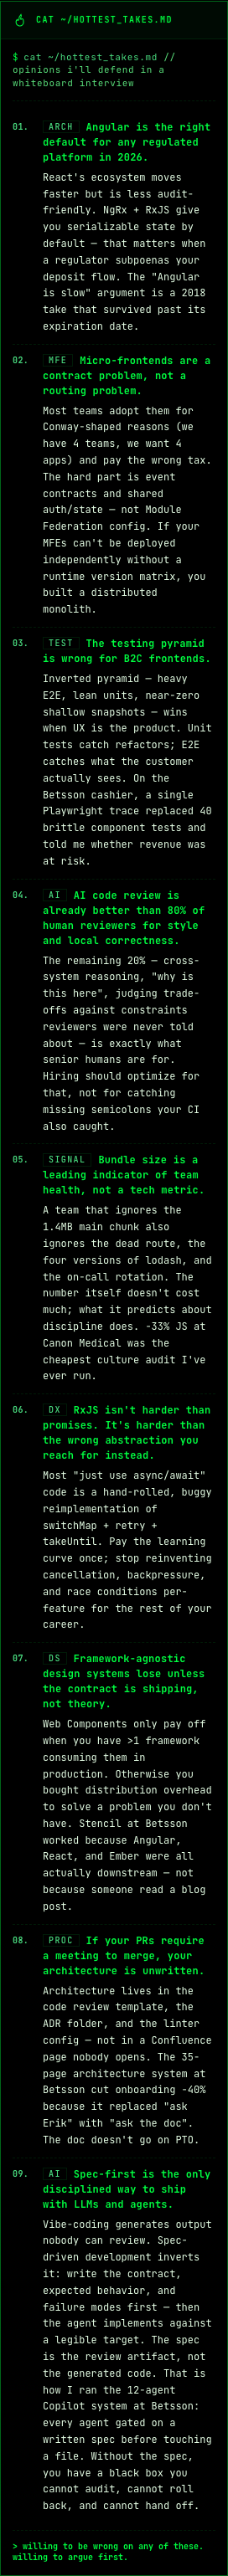
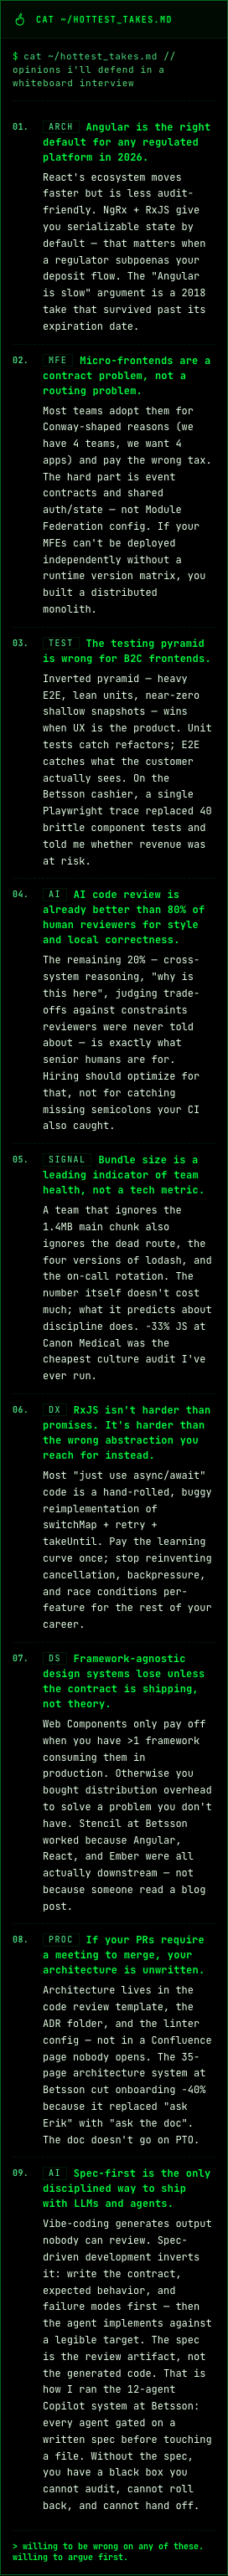
fix(seo): regenerate the CV; finish the TTI sign; glob the identity gate instead of listing it
Four survivors, and the last one explains the other three.

The downloadable CV still said "Senior Full-Stack Software Engineer".
public/erik-cunha-cv.pdf is linked from DesktopTopbar and served at
erikunha.dev/erik-cunha-cv.pdf -- the artifact a recruiter actually takes away,
and the highest-intent surface on the site. The branch exists to retire that
string and it survived there. Regenerated from the corrected source .docx via
LibreOffice: 4 pages before and after, 151983 -> 152041 bytes, title fixed, phone
already correct, layout inspected page by page.

The TTI sign fix was incomplete and the survivor was RENDERED. content/projects.ts
said "+52% TTI" in the description and "TTI GAIN: +52%" in the stat tile, so the
same page displayed -52% (perf-receipts, authoritative) and +52% (projects) at
once. Relabelled to "TTI" so the negative delta reads correctly -- a "gain" of
-52% is nonsense. content/ask-eval-corpus.ts also graded the model against
"~+52%", meaning a correct answer would have scored against ground truth encoding
the sign the prompt no longer uses.

The gate's surface list was HAND-MAINTAINED, and that is the actual defect. It
leaked a survivor in three consecutive review rounds -- the OG card, then the
rendered man page, then the shell's whois response -- because a new content file
is only covered if someone remembers to add it. Memory is not a mechanism. It now
globs content/*.ts, so coverage is the default and forgetting is impossible.
[…]

diff --git a/__tests__/identity-consistency.test.ts b/__tests__/identity-consistency.test.ts
@@ -1,8 +1,7 @@
-import { readFileSync } from 'node:fs';
+import { readdirSync, readFileSync } from 'node:fs';
 import path from 'node:path';
 import { beforeAll, describe, expect, it, vi } from 'vitest';
 import { heroTagline } from '@/content/hero';
-import { manPage } from '@/content/man-page';
 import { personSchema } from '@/content/seo';
 import { social } from '@/content/social';
 import { SYSTEM_TEXT } from '@/lib/ask/system-prompt';
@@ -15,36 +14,39 @@ vi.mock('next/font/local', () => ({
 const CANONICAL_TITLE = 'Senior Full-Stack Engineer';
 const RETIRED_TITLE = 'Full-Stack Software Engineer';
 
-const llmsTxt = readFileSync(path.resolve(__dirname, '../public/llms.txt'), 'utf-8');
-const agentManifest = readFileSync(
-  path.resolve(__dirname, '../public/.well-known/agent.json'),
-  'utf-8',
-);
+const REPO_ROOT = path.resolve(__dirname, '..');
+const CONTENT_DIR = path.join(REPO_ROOT, 'content');
+
+const read = (relativePath: string) => readFileSync(path.join(REPO_ROOT, relativePath), 'utf-8');
+
+const llmsTxt = read('public/llms.txt');
 // behavioral-test-allow: the OG-image title is baked into an HTML template string inside the
 // generator script, so it is reachable only as source text — there is nothing to import
-const ogImageScript = readFileSync(
-  path.resolve(__dirname, '../scripts/generate-og-image.ts'),
-  'utf-8',
-);
+const ogImageScript = read('scripts/generate-og-image.ts');
+
+// Globbed, NOT hand-listed. A hand-maintained surface list leaked a survivor in three
+// consecutive review rounds (the OG card, then the rendered man page, then the shell's
+// whois response) because a new content file is only covered if someone remembers to add
+// it. Enumerating the directory makes coverage the default and forgetting impossible.
+const contentSurfaces: Array<[string, string]> = readdirSync(CONTENT_DIR)
+  .filter((file) => file.endsWith('.ts'))
+  .map((file) => [`content/${file}`, readFileSync(path.join(CONTENT_DIR, file), 'utf-8')]);
+
 const digitsOf = (value: string) => value.replace(/\D/g, '');
 
-let layoutTitle = '';
 let layoutMetadataText = '';
 
 beforeAll(async () => {
   const { metadata } = await import('@/app/layout');
-  layoutTitle = String(metadata.title);
-  // every metadata field a crawler or link-unfurler reads: title, description,
-  // openGraph.{title,description,images[].alt}, twitter.{title,description}
   layoutMetadataText = JSON.stringify(metadata);
 });
 
-describe('identity is consistent across every public surface', () => {
+describe('identity is consistent across every gated surface', () => {
   it('every title surface states the canonical title', () => {
     const surfaces: Array<[string, string]> = [
       ['content/hero.ts (heroTagline)', heroTagline],
       ['content/seo.ts (jobTitle)', personSchema.jobTitle],
-      ['app/layout.tsx (metadata.title)', layoutTitle],
+      ['app/layout.tsx (metadata.title)', String(JSON.parse(layoutMetadataText).title)],
       ['public/llms.txt', llmsTxt],
       ['scripts/generate-og-image.ts (social preview card)', ogImageScript],
     ];
@@ -52,24 +54,19 @@ describe('identity is consistent across every public surface', () => {
 
     expect(
       drifted,
-      `these surfaces do not state the canonical title "${CANONICAL_TITLE}". Every surface a recruiter or crawler can land on must agree. These strings are Zod-validated for SHAPE (min length), never for VALUE, so nothing stopped them drifting apart — which is exactly how public/llms.txt ended up naming a stale employer while the JSON-LD named the current one.`,
+      `these surfaces do not state the canonical title "${CANONICAL_TITLE}". Every surface a recruiter or crawler lands on must agree. The content modules are Zod-validated for SHAPE (min length), never for VALUE, so nothing stopped them drifting apart — which is how public/llms.txt came to name a stale employer while the JSON-LD named the current one.`,
     ).toEqual([]);
   });
 
   it('no surface still carries the retired title', () => {
-    // whole-object surfaces, not cherry-picked fields: app/layout.tsx JSON.stringify's
-    // personSchema into the JSON-LD script, so EVERY field of it is public — checking
-    // jobTitle alone left seeks.itemOffered.title and knowsAbout silently unguarded
     const surfaces: Array<[string, string]> = [
-      ['content/hero.ts (heroTagline)', heroTagline],
-      ['content/man-page.ts (rendered on the page)', JSON.stringify(manPage)],
-      ['content/seo.ts (personSchema → JSON-LD)', JSON.stringify(personSchema)],
-      ['app/layout.tsx (all metadata: og + twitter + alt + description)', layoutMetadataText],
+      ...contentSurfaces,
+      ['app/layout.tsx (og + twitter + alt + description)', layoutMetadataText],
       ['lib/hiring-profile.ts (served at /api/erik.json)', JSON.stringify(HIRING_PROFILE)],
-      ['public/llms.txt', llmsTxt],
-      ['public/.well-known/agent.json', agentManifest],
-      ['scripts/generate-og-image.ts (social preview card)', ogImageScript],
       ['lib/ask/system-prompt.ts', SYSTEM_TEXT],
+      ['public/llms.txt', llmsTxt],
+      ['public/.well-known/agent.json', read('public/.well-known/agent.json')],
+      ['scripts/generate-og-image.ts (social preview card)', ogImageScript],
     ];
     const needle = RETIRED_TITLE.toLowerCase();
     const stale = surfaces
@@ -78,7 +75,7 @@ describe('identity is consistent across every public surface', () => {
 
     expect(
       stale,
-      `"${RETIRED_TITLE}" was retired in favour of "${CANONICAL_TITLE}" (owner decision). Matched case-INSENSITIVELY: content/man-page.ts carried the retired title in lowercase prose ("Senior full-stack software engineer") and a case-sensitive check walked straight past it, on the one surface a human actually reads. A half-normalized identity is the defect: it reads differently depending on where the reader lands.`,
+      `"${RETIRED_TITLE}" was retired in favour of "${CANONICAL_TITLE}" (owner decision). Matched case-INSENSITIVELY because content/man-page.ts carried it as lowercase prose and a case-sensitive check walked straight past it, on the one surface a human actually reads.\n\nNOT GATED HERE: public/erik-cunha-cv.pdf. Its text is in subset fonts with custom glyph encodings, so extracting it needs a real PDF parser (a dependency decision, not a test tweak). It is regenerated from the source .docx and verified by hand. If you change the title, regenerate the CV too — nothing here will catch it.`,
     ).toEqual([]);
   });
 

diff --git a/content/projects.ts b/content/projects.ts
@@ -44,10 +44,10 @@ export const projects: Project[] = z.array(ProjectSchema).parse([
     description:
       'Mission-critical hospital operations dashboards — real-time, multi-site, Clean Architecture.',
     mobileDescription:
-      'Angular + Nx + Clean Architecture frontend for Canon Medical workflow ops. -33% JS, +52% TTI, ~100% WCAG 2.1 AA. Lazy-loaded modules, OnPush everywhere, concurrent async pipelines.',
+      'Angular + Nx + Clean Architecture frontend for Canon Medical workflow ops. -33% JS, -52% TTI, ~100% WCAG 2.1 AA. Lazy-loaded modules, OnPush everywhere, concurrent async pipelines.',
     stats: [
       { label: 'JS BUNDLE', value: '-33%' },
-      { label: 'TTI GAIN', value: '+52%' },
+      { label: 'TTI', value: '-52%' },
       { label: 'STACK', value: 'ANGULAR / NX / RXJS' },
     ],
     mobileMeta: [

diff --git a/content/ask-eval-corpus.ts b/content/ask-eval-corpus.ts
@@ -122,7 +122,7 @@ export const ASK_EVAL_CORPUS: AskEvalItem[] = AskEvalCorpusSchema.parse([
     id: 'fact-perf-canon-bundles',
     question: 'What bundle-size improvements has Erik shipped?',
     expect:
-      'At Canon Medical: roughly -33% JS bundle and -98% CSS bundle, plus a large TTI improvement (~+52%).',
+      'At Canon Medical: roughly -33% JS bundle and -98% CSS bundle, plus a large TTI improvement (~-52%, i.e. time-to-interactive fell by about half).',
     kind: 'factual',
   },
   {